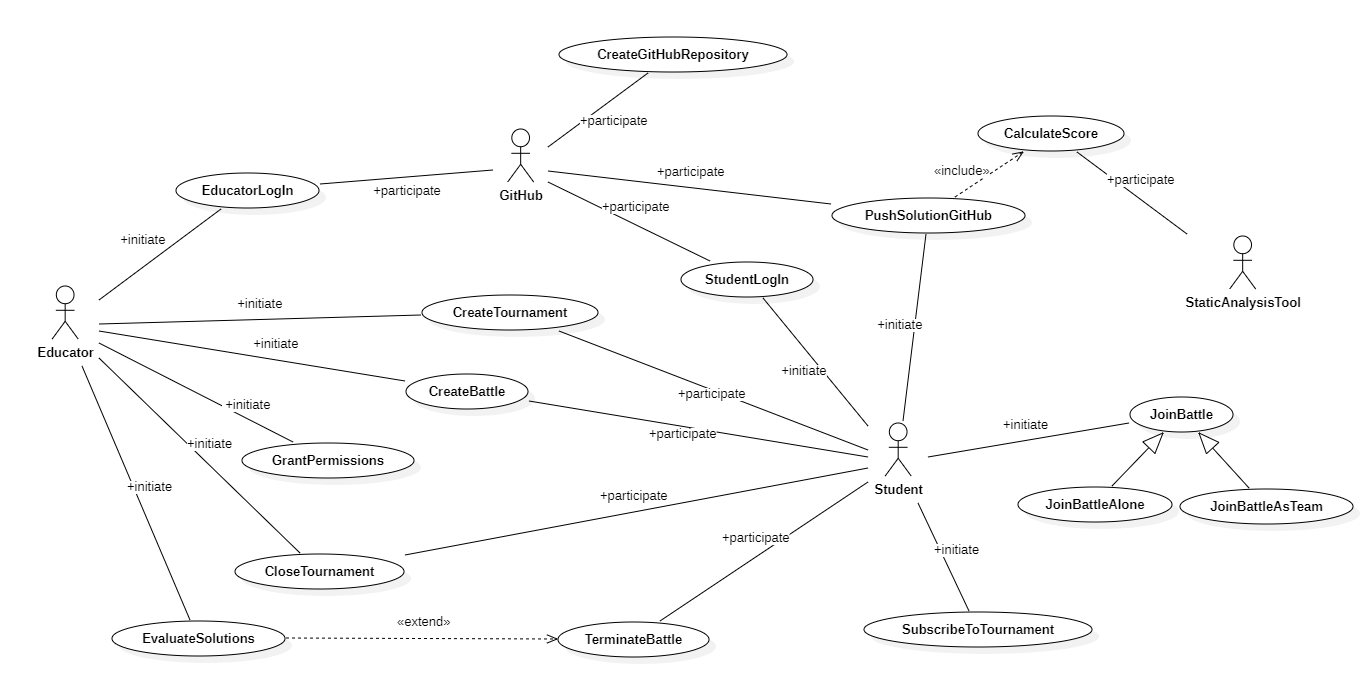
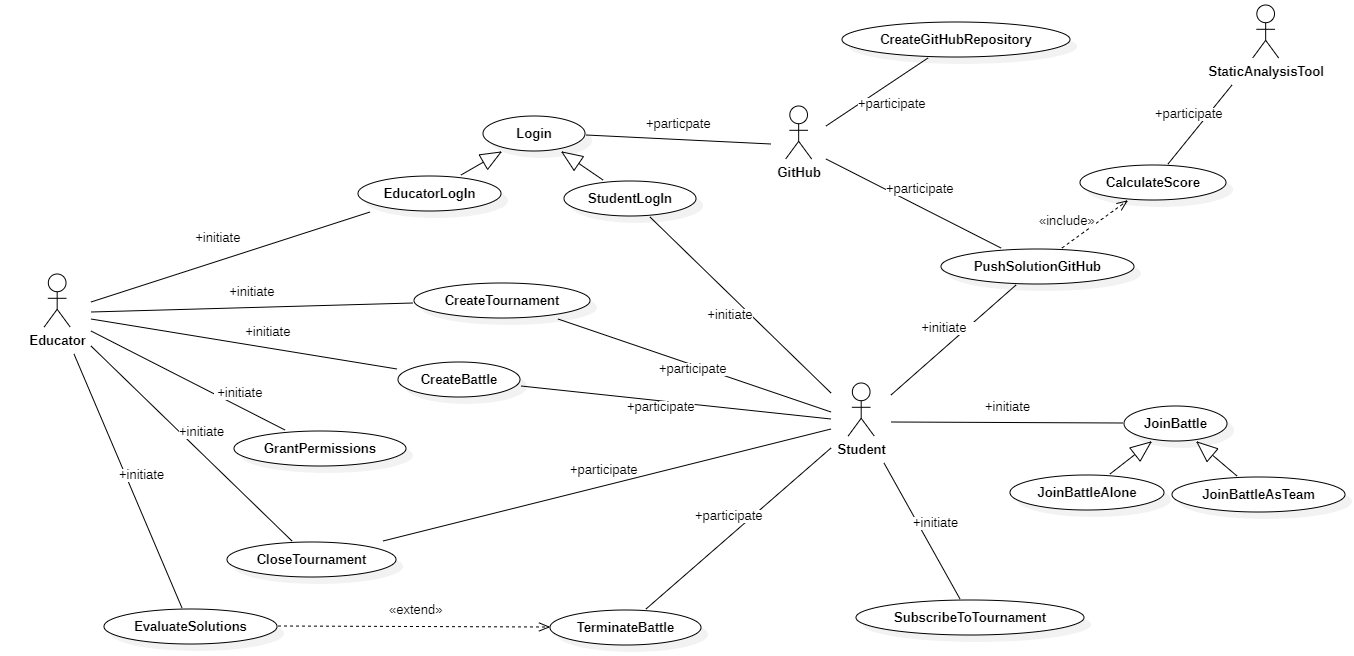
Use Case Diagrams added

diff --git a/RASD/2Overall_Description/src/2.1.2DomainClassDiagram.tex b/RASD/2Overall_Description/src/2.1.2DomainClassDiagram.tex
@@ -1,6 +1,6 @@
 \subsubsection{Domain Class Diagrams}
 \begin{figure}[h]
     \centering
-    \includegraphics[width=1\textwidth]{RASD/2Overall_Description/res/CD.png}
+    %\includegraphics[width=1\textwidth]{RASD/2Overall_Description/res/CD.png}
 \end{figure}
 \clearpage

diff --git a/RASD/2Overall_Description/src/2.1.3StateCharts.tex b/RASD/2Overall_Description/src/2.1.3StateCharts.tex
@@ -2,5 +2,5 @@
 \textbf{Tournament State Chart:}
 \begin{figure}[h]
     \centering
-    \includegraphics[width=1\textwidth]{RASD/2Overall_Description/res/st1.png}
+    %\includegraphics[width=1\textwidth]{RASD/2Overall_Description/res/st1.png}
 \end{figure}

diff --git a/RASD/3Specific_Requirements/src/3.2.1UseCasesDiagrams.tex b/RASD/3Specific_Requirements/src/3.2.1UseCasesDiagrams.tex
@@ -1,1 +1,6 @@
 \subsubsection{Use Case Diagrams}
+\graphicspath{{3Specific_Requirements/res/}}
+\centering
+\includegraphics*[width=18cm,keepaspectratio]{UseCaseDiagram1}
+\vspace*{3cm}
+\includegraphics*[width=12cm,keepaspectratio]{UseCaseDiagram2}
